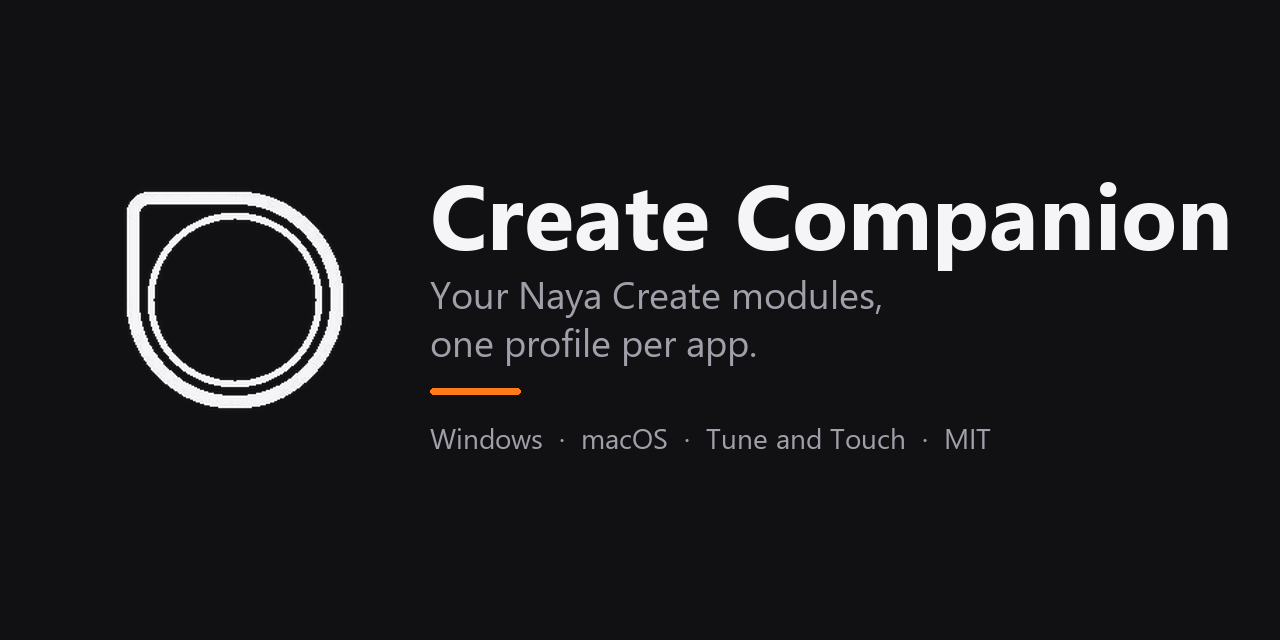
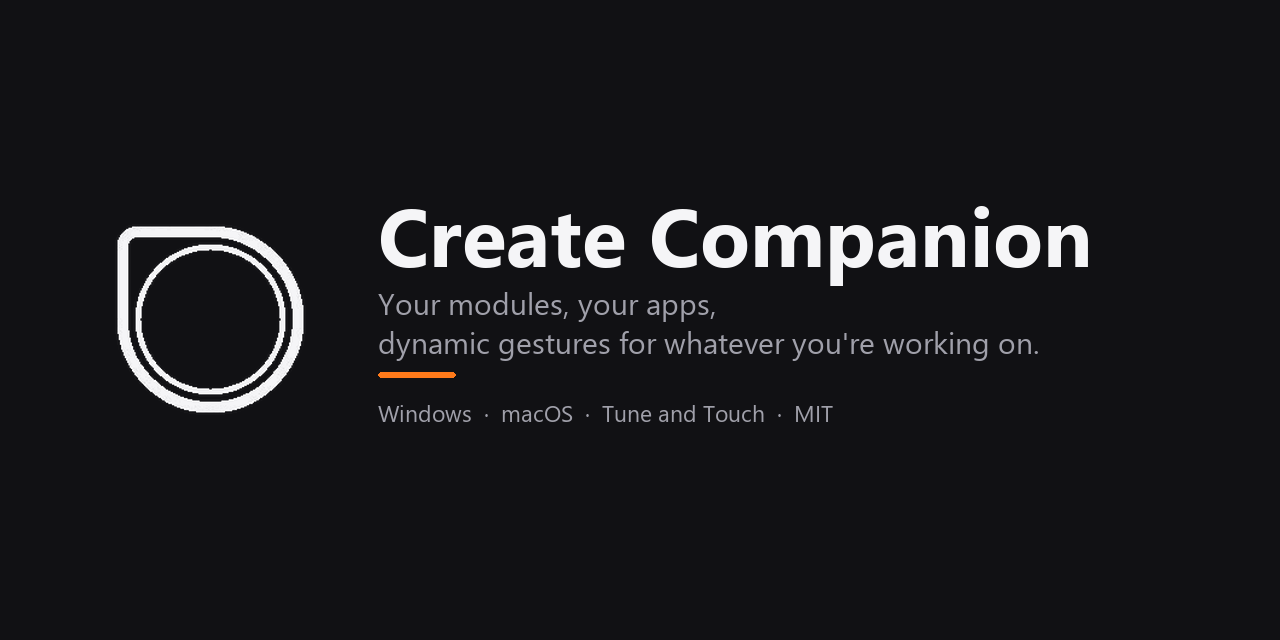
tagline: your modules, your apps, dynamic gestures for whatever you're working on

Changed region(s): [[0.0938, 0.2812, 0.9688, 0.7188], [0.4688, 0.625, 0.7188, 0.7188], [0.75, 0.6562, 0.7812, 0.7188]]

diff --git a/tools/make_banner.py b/tools/make_banner.py
@@ -1,9 +1,11 @@
-"""Render the README banner (dark and light) from the app icon and the wordmark.
+"""Render the README banners (dark and light) and the social preview card from
+the app icon and the wordmark.
 
     python tools/make_banner.py
 
-Writes docs/media/banner-dark.png and docs/media/banner-light.png. Uses Segoe UI
-when present (Windows); falls back to Pillow's bundled font otherwise.
+Writes docs/media/banner-dark.png, banner-light.png (1600x520) and
+social-preview.png (1280x640, the size GitHub's Social preview setting wants).
+Uses Segoe UI when present (Windows); falls back to Pillow's bundled font.
 """
 import os
 from pathlib import Path
@@ -13,8 +15,14 @@ from PIL import Image, ImageDraw, ImageFont
 ROOT = Path(__file__).resolve().parent.parent
 os.chdir(ROOT)
 
-W, H = 1600, 520
+TAGLINE = ("Your modules, your apps,", "dynamic gestures for whatever you're working on.")
+PLATFORMS = "Windows  ·  macOS  ·  Tune and Touch"
+
 ICON = Image.open("assets/icon.png").convert("RGBA")
+THEMES = {
+    "dark": dict(bg=(17, 17, 20), ink=(245, 245, 247), muted=(160, 160, 170), accent=(255, 122, 26)),
+    "light": dict(bg=(250, 250, 252), ink=(24, 24, 28), muted=(100, 100, 110), accent=(224, 96, 0)),
+}
 
 
 def font(size: int, bold: bool = False) -> ImageFont.FreeTypeFont:
@@ -32,35 +40,35 @@ def tinted(icon: Image.Image, rgb: tuple[int, int, int], size: int) -> Image.Ima
     return out.resize((size, size), Image.LANCZOS)
 
 
-def render(theme: str) -> None:
-    if theme == "dark":
-        bg, ink, muted, accent = (17, 17, 20), (245, 245, 247), (160, 160, 170), (255, 122, 26)
-    else:
-        bg, ink, muted, accent = (250, 250, 252), (24, 24, 28), (100, 100, 110), (224, 96, 0)
-    img = Image.new("RGB", (W, H), bg)
+def render(out: Path, w: int, h: int, theme: str, scale: float = 1.0, extra: str = "") -> None:
+    c = THEMES[theme]
+    img = Image.new("RGB", (w, h), c["bg"])
     d = ImageDraw.Draw(img)
 
-    # Icon on the left, tinted to the theme's ink.
-    size = 260
-    icon = tinted(ICON, ink, size)
-    ix, iy = 140, (H - size) // 2
+    size = int(250 * scale)
+    icon = tinted(ICON, c["ink"], size)
+    ix, iy = int(120 * scale), (h - size) // 2
     img.paste(icon, (ix, iy), icon)
 
-    # Wordmark and tagline.
-    x = ix + size + 80
-    f_title = font(112, bold=True)
-    f_tag = font(40)
-    f_small = font(30)
-    d.text((x, 118), "Create Companion", font=f_title, fill=ink)
-    d.text((x, 262), "Your Naya Create modules, one profile per app.", font=f_tag, fill=muted)
-    # Accent rule and platform line.
-    d.rounded_rectangle((x, 336, x + 90, 342), radius=3, fill=accent)
-    d.text((x, 366), "Windows  ·  macOS  ·  Tune and Touch", font=f_small, fill=muted)
+    x = ix + size + int(70 * scale)
+    f_title = font(int(96 * scale), bold=True)
+    f_tag = font(int(36 * scale))
+    f_small = font(int(27 * scale))
+    top = (h - int(330 * scale)) // 2
+    d.text((x, top), "Create Companion", font=f_title, fill=c["ink"])
+    y = top + int(122 * scale)
+    for line in TAGLINE:
+        d.text((x, y), line, font=f_tag, fill=c["muted"])
+        y += int(46 * scale)
+    y += int(14 * scale)
+    d.rounded_rectangle((x, y, x + int(90 * scale), y + int(6 * scale)), radius=3, fill=c["accent"])
+    y += int(30 * scale)
+    d.text((x, y), PLATFORMS + extra, font=f_small, fill=c["muted"])
 
-    out = Path("docs/media") / f"banner-{theme}.png"
     img.save(out, optimize=True)
     print(out, os.path.getsize(out), "bytes")
 
 
-for t in ("dark", "light"):
-    render(t)
+render(Path("docs/media/banner-dark.png"), 1600, 520, "dark", scale=1.12)
+render(Path("docs/media/banner-light.png"), 1600, 520, "light", scale=1.12)
+render(Path("docs/media/social-preview.png"), 1280, 640, "dark", scale=0.86, extra="  ·  MIT")

diff --git a/README.md b/README.md
@@ -6,8 +6,8 @@
 </p>
 
 <p align="center">
-  <b>Turn the Naya Create's Tune and Touch gestures into per-application shortcuts.</b><br>
-  Flash a module once. Decide what its gestures do per app, live, on the computer.
+  <b>Your modules, your apps, dynamic gestures for whatever you're working on.</b><br>
+  Flash a Naya Create module once. Decide what its gestures do in each app, live, on the computer.
 </p>
 
 <p align="center">
